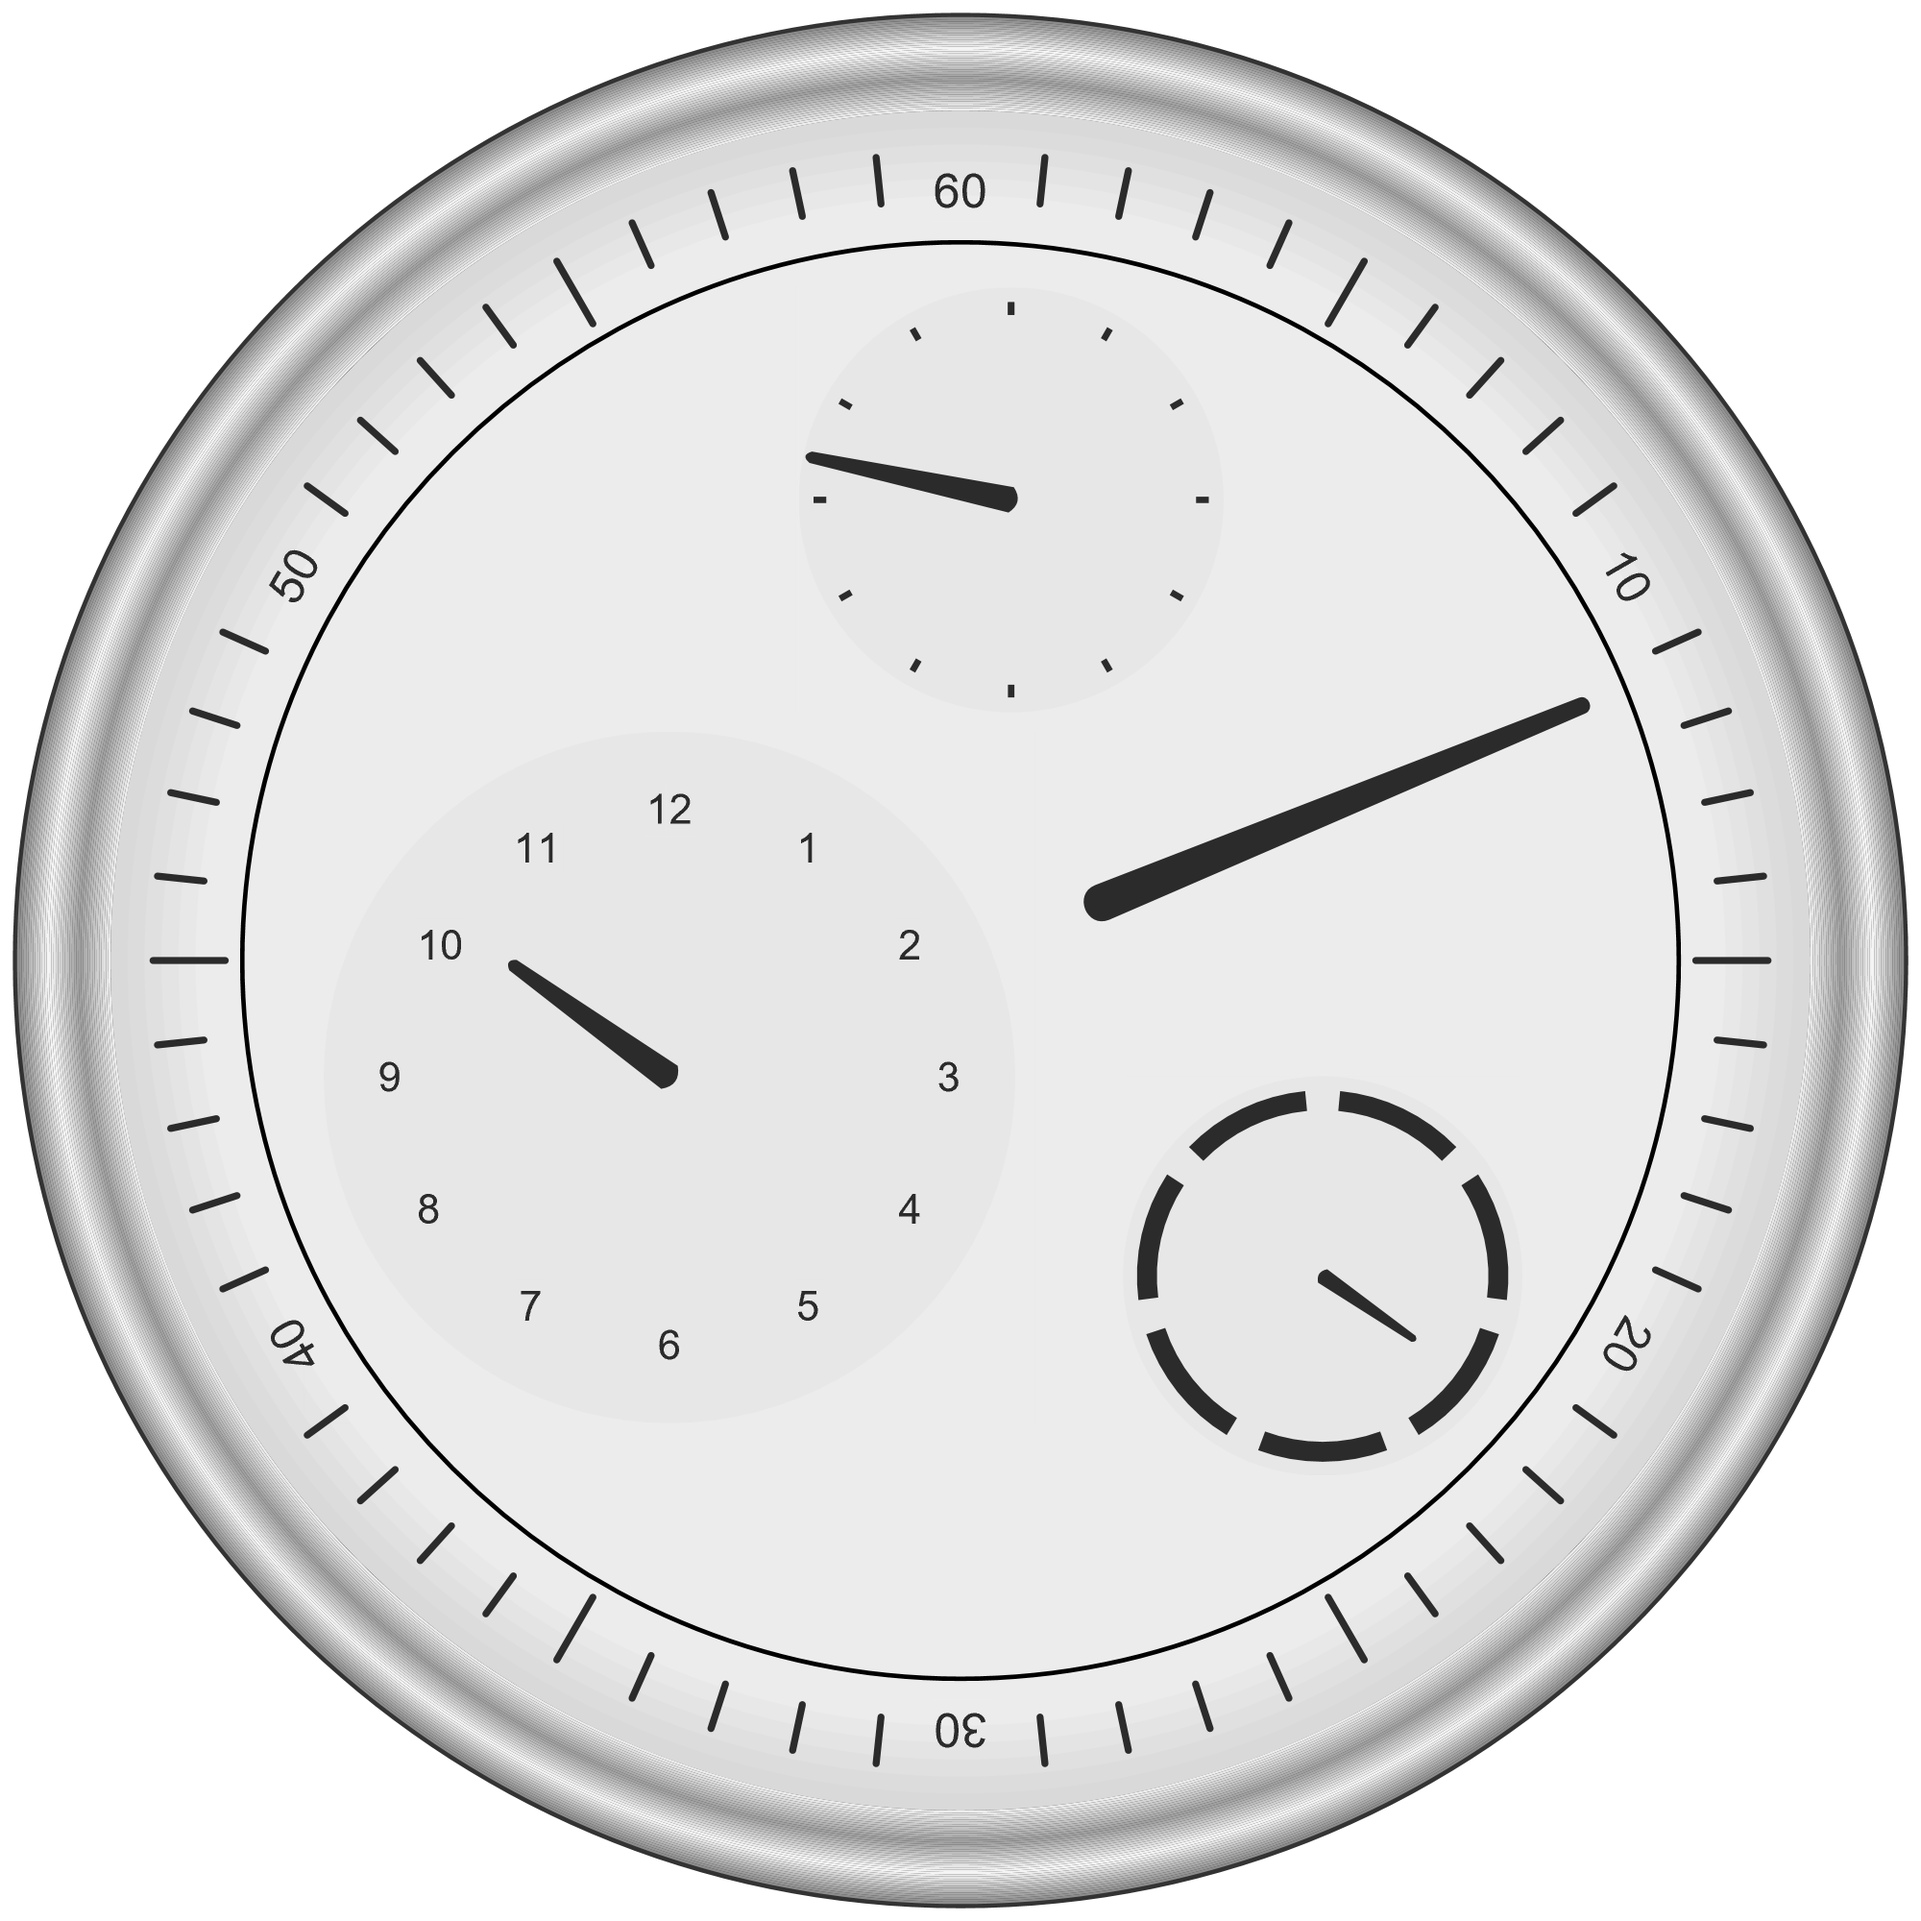
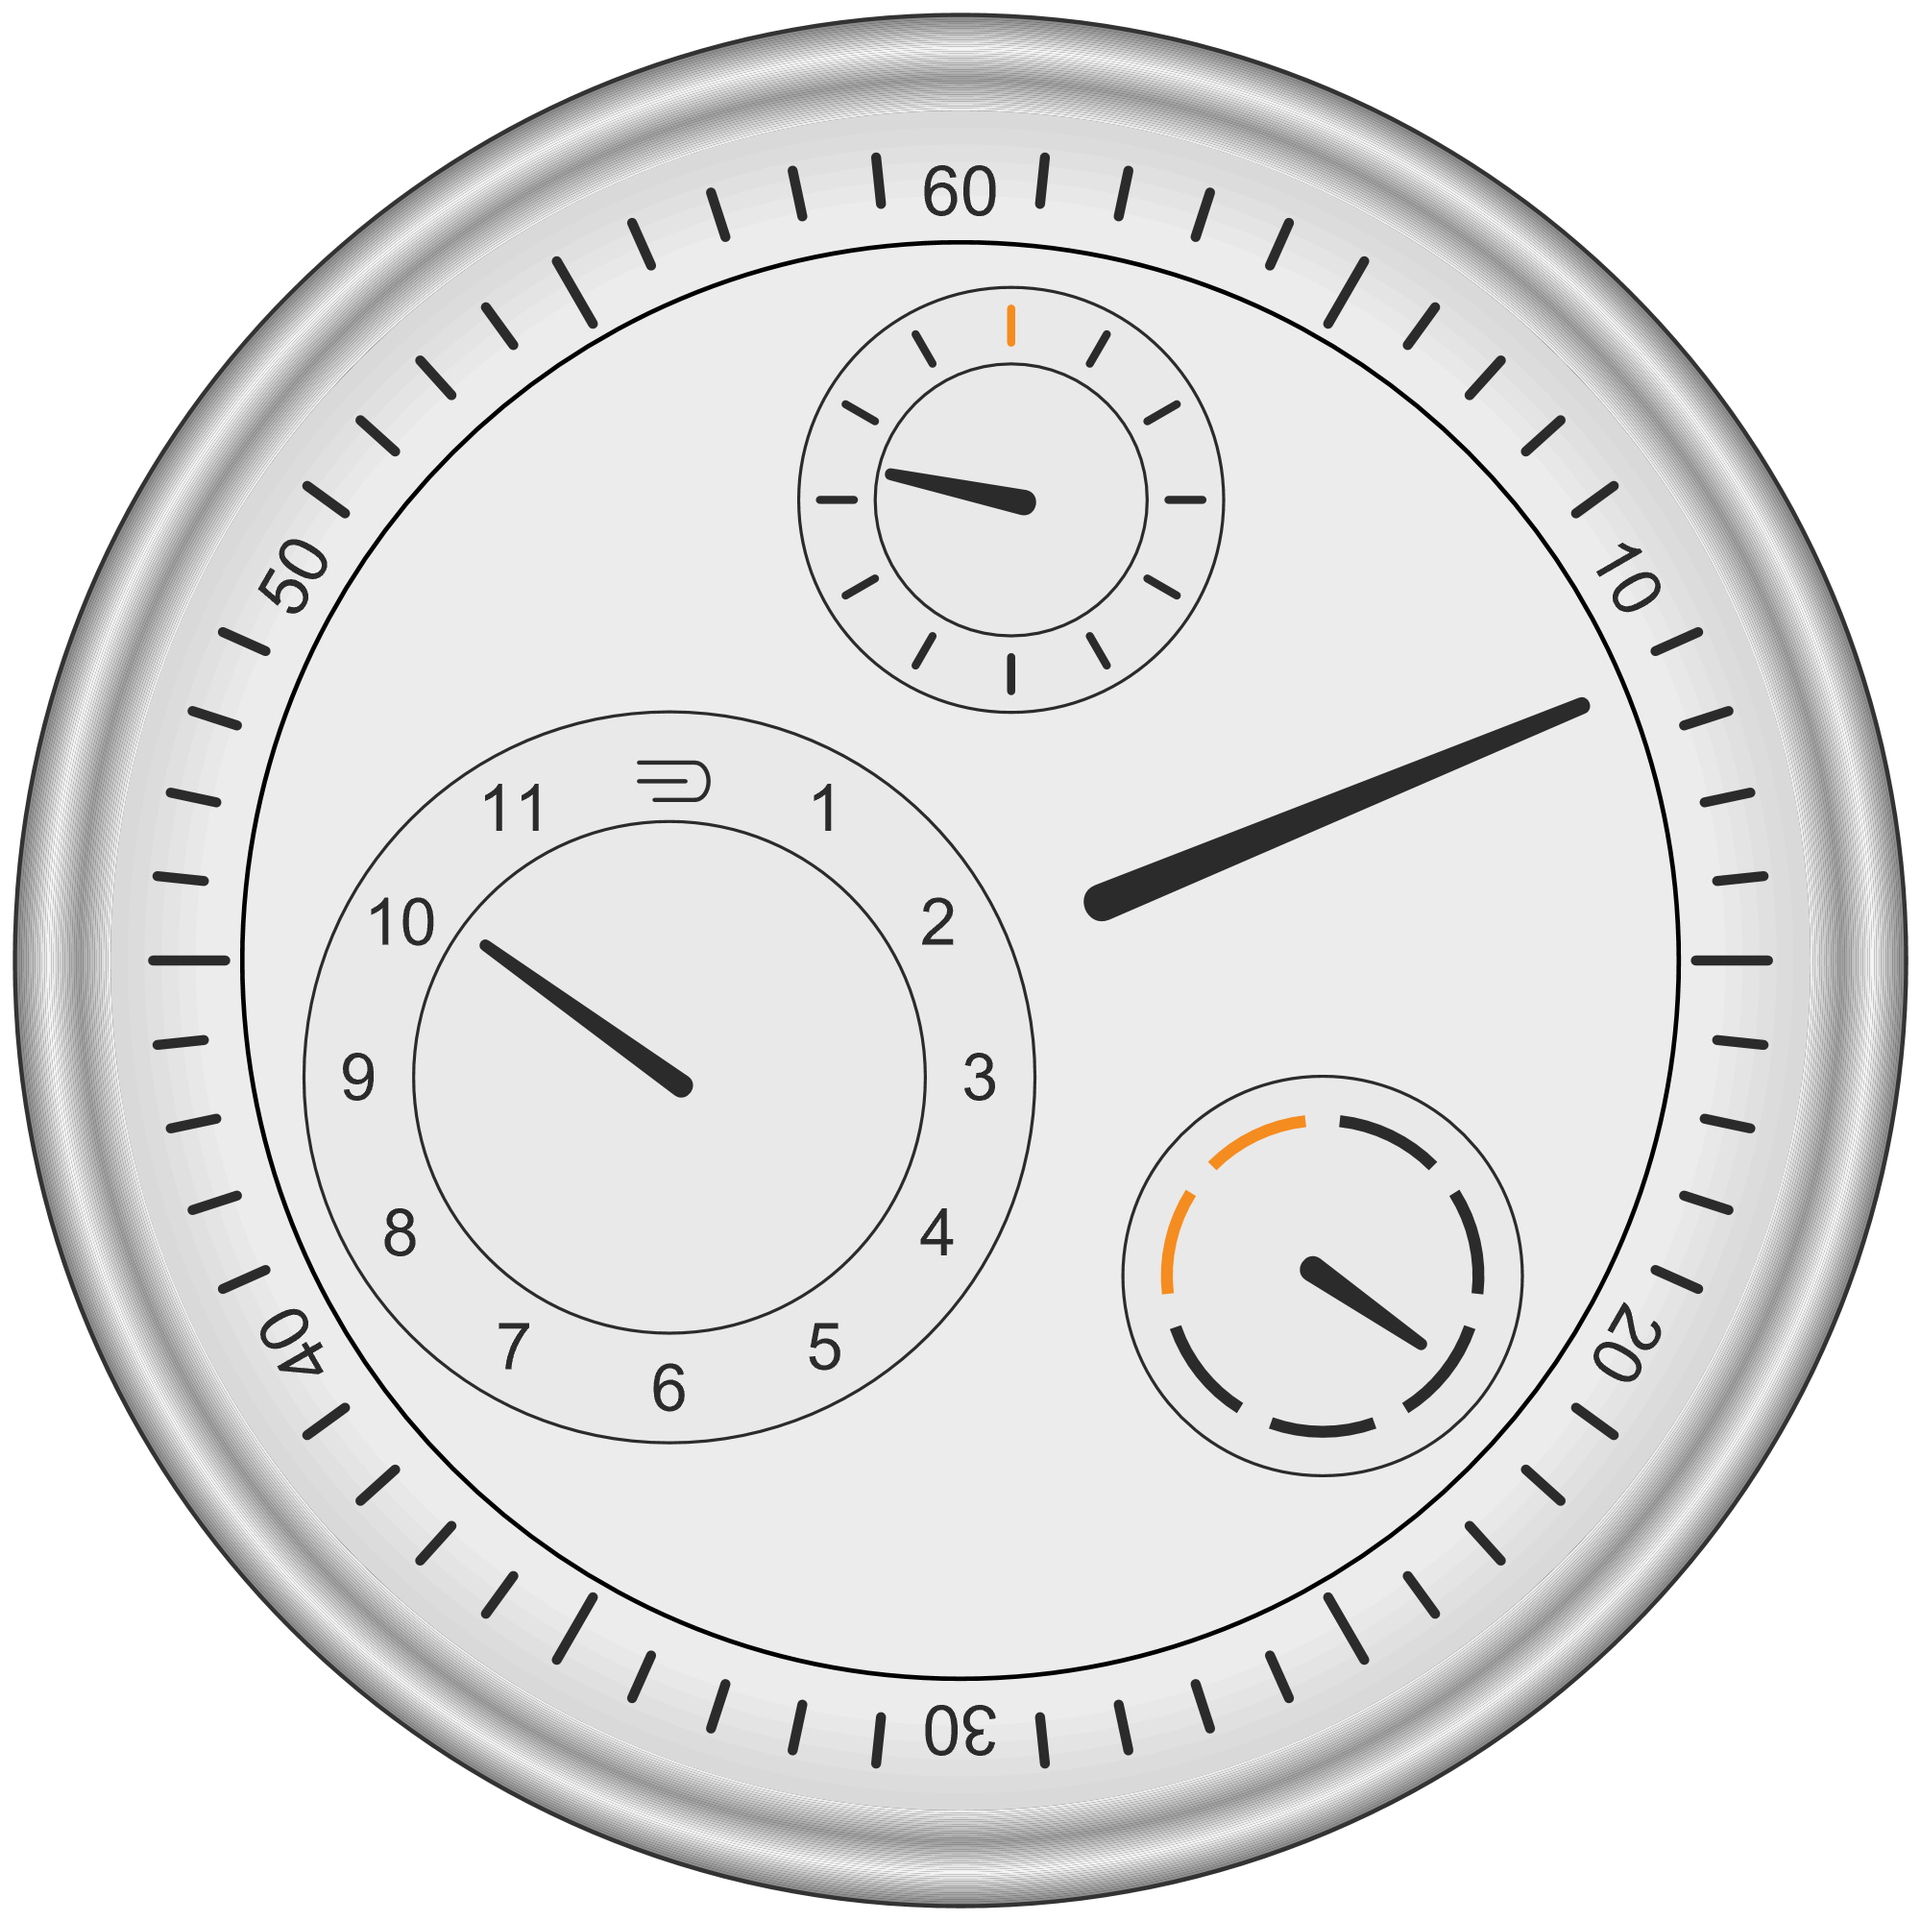
Draw sub-dials with graphics primitives and Text instead of ClockGauge
- Hour dial: outer numeral ring with hand logo at 12, inner disc with hand
- Seconds dial: 12 ticks between two rings, orange 12 o'clock tick
- Day dial: 7 arcs for Monday-Sunday with the weekend in orange
- Font sizes and line widths scale with the image size
- Update README and notebook text

diff --git a/README.md b/README.md
@@ -1,6 +1,6 @@
 # RessenWatch
 
-A light-dial Ressence Type 1–style watch face in Wolfram Language, built from `ClockGauge` sub-dials that orbit like planetary gears. Hands are slightly tapered, and a thin black line separates the fixed minute ring from the rotating disc.
+A light-dial Ressence Type 1–style watch face in Wolfram Language, drawn with graphics primitives and `Text`, with sub-dials that orbit like planetary gears. Hands are slightly tapered, and a thin black line separates the fixed minute ring from the rotating disc.
 
 ![ROCS animation](ressence_rocs.gif)
 
@@ -9,8 +9,10 @@ A light-dial Ressence Type 1–style watch face in Wolfram Language, built from 
 Ressence watches use the ROCS (Ressence Orbital Convex System): there are no central hands, and the whole dial is the display.
 
 - **Carrier disc:** the main disc turns clockwise once per hour. The long marker on it reads the minutes against the outer 10…60 scale, which is fixed to the case.
-- **Satellites:** the hour, seconds and day-of-week dials are `ClockGauge` objects mounted on the disc. They orbit with it, but they're counter-geared so the rings never spin: numerals and ticks stay upright, and only the hand inside each one turns.
-- **Day dial:** 7 slots for Monday–Sunday, clockwise from 12 o'clock. The hand moves through the current day's slot over the day.
+- **Satellites:** the hour, seconds and day-of-week dials are mounted on the disc. They orbit with it, but they're counter-geared so the rings never spin: numerals and ticks stay upright, and only the hand inside each one turns.
+- **Hour dial:** numerals 1–11 on an outer ring with a small hand logo at 12; the hand turns on the inner disc.
+- **Seconds dial:** 12 ticks between two rings, with the 12 o'clock tick in orange.
+- **Day dial:** 7 arcs for Monday–Sunday, clockwise from 12 o'clock, with Saturday and Sunday in orange. The hand moves through the current day's arc over the day.
 
 ## Usage
 
